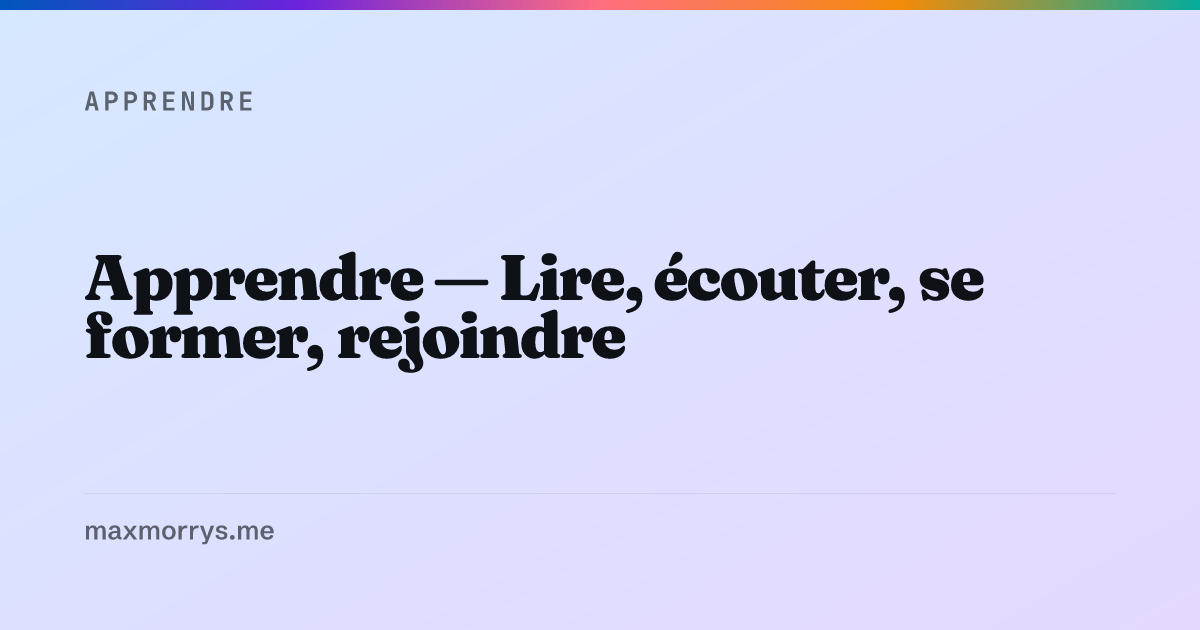
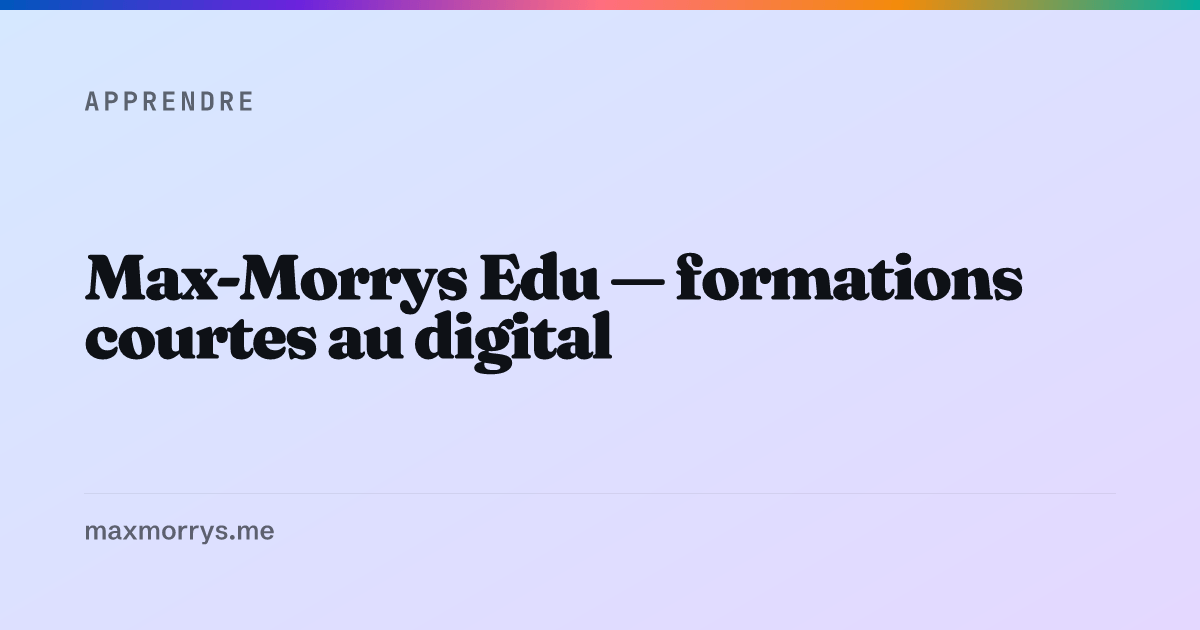
feat(seo): le pré-rendu du Worker suit les écrans de la passe 2
- H1 des pages du site alignés sur les nouveaux titres (accueil, à propos,
  conception, commerces, réalisations — nombre dérivé de REALISATIONS —,
  blog, podcast & vidéos, FAQ, contact), avec leur anglais écrit.
- `PageMeta.en` : l'anglais déjà présent dans l'i18n remplace, champ par
  champ, la traduction Gemini ; le champ ne sort jamais dans la méta.
- Club : description = `publicPage.lede` ; nouvelles pages
  /club-des-digitos/sessions et /adhesion (FR + EN), dont le `noindex`
  côté app est retiré.
- Edu : nouvelles pages /apprendre/methode et /apprendre/assistant ;
  /apprendre et /verifier retitrées « Max-Morrys Edu ».
- Routes de pré-rendu, sitemap, segments (miroir de src/i18n/segments.ts)
  et cartes d'aperçu des quatre pages neuves.

Changed region(s): [[0.0617, 0.3921, 0.8633, 0.6032]]

diff --git a/worker/apps/site/src/prerender/static-pages.ts b/worker/apps/site/src/prerender/static-pages.ts
@@ -6,6 +6,7 @@ import {
   SITE_URL,
   SOCIAL_URLS,
 } from '../constants';
+import { REALISATIONS } from './realisations';
 import type { PageMeta } from './types';
 
 /**
@@ -40,7 +41,8 @@ export const staticPages: Record<string, PageMeta> = {
      * avec leur date de relevé. Un nombre écrit en dur dans ce miroir serait faux le
      * lendemain, et rien ne le dirait.
      */
-    h1: 'Max-Morrys, conception web et formation',
+    h1: 'Former. Construire. Transmettre.',
+    en: { h1: 'Train. Build. Pass it on.' },
     bodyText:
       "Max-Morrys conçoit des sites et des plateformes web, et forme au digital — référencement, marketing, intelligence artificielle. Une seule personne, à Dakar, pour le marché francophone d'Afrique de l'Ouest.\n\n" +
       "Deux pistes, et aucune n'est l'antichambre de l'autre. La piste Conception se fait POUR vous : mise en ligne d'un commerce ou d'une TPE avec des formules bornées et des prix publiés, et projets sur mesure sur devis — sites corporate, plateformes, portails métier, systèmes de design. La piste Apprendre se fait PAR vous : formations, blog, podcast et vidéos, et le Club des Digitos.\n\n" +
@@ -121,7 +123,8 @@ export const staticPages: Record<string, PageMeta> = {
       address: { '@type': 'PostalAddress', addressLocality: 'Dakar', addressCountry: 'SN' },
       sameAs: SOCIAL_URLS,
     },
-    h1: 'Je suis Max-Morrys',
+    h1: 'Trois villes, un métier.',
+    en: { h1: 'Three cities, one trade.' },
     bodyText:
       "Concepteur web, formateur et créateur de contenu digital basé à Dakar. Je cadre les projets, j'écris les articles, je monte les formations, j'anime le Club, et je réponds aux messages.\n\n" +
       "Deux pistes, un seul interlocuteur. Je conçois des sites et des plateformes web pour des commerces, des TPE et des organisations ; et je forme au digital — référencement, marketing, intelligence artificielle — par des formations, un blog, un podcast et une communauté.\n\n" +
@@ -146,7 +149,8 @@ export const staticPages: Record<string, PageMeta> = {
     ogType: 'website',
     ogImage: DEFAULT_OG_IMAGE,
     canonical: `${SITE_URL}/blog`,
-    h1: 'Blog Marketing Digital',
+    h1: "J'écris ce que j'applique.",
+    en: { h1: 'I write what I apply.' },
     bodyText:
       "Retrouvez ici tous les articles de Max-Morrys sur le marketing digital, le SEO, l'IA, le growth marketing et la stratégie digitale. Conseils pratiques pour entrepreneurs et entreprises africaines.",
     breadcrumbs: [
@@ -211,7 +215,8 @@ export const staticPages: Record<string, PageMeta> = {
     ogType: 'website',
     ogImage: DEFAULT_OG_IMAGE,
     canonical: `${SITE_URL}/podcast-et-videos`,
-    h1: 'Écouter & regarder',
+    h1: 'À écouter, à regarder.',
+    en: { h1: 'To listen to, to watch.' },
     bodyText:
       "Le blog donne des méthodes ; ici, des gens racontent ce qu'ils ont fait. Épisodes de podcast et vidéos réunis sur une seule page, gratuits et sans compte, avec une transcription quand elle existe.",
     breadcrumbs: [
@@ -226,14 +231,19 @@ export const staticPages: Record<string, PageMeta> = {
    */
   '/club-des-digitos': {
     title: `Le Club des Digitos — Une année avec moi | ${SITE_NAME}`,
+    /* = `publicPage.lede` de `fr/club.json` : l'aperçu de partage dit ce que dit l'écran. */
     description:
-      "Sessions en direct, missions qui circulent et une réponse de moi dans les discussions. 1 658 FCFA par mois, facturé 19 900 FCFA une fois par an. Wave, Orange Money ou carte.",
+      "Le Club des Digitos, c'est un fil pour montrer ton travail et recevoir des retours, des sessions en direct chaque mois avec Max-Morrys, et des opportunités publiées par les membres.",
+    en: {
+      description:
+        'The Digitos Club is a feed to show your work and get feedback, live sessions every month with Max-Morrys, and opportunities posted by members.',
+    },
     ogType: 'website',
     ogImage: DEFAULT_OG_IMAGE,
     canonical: `${SITE_URL}/club-des-digitos`,
     h1: 'Le Club des Digitos',
     bodyText:
-      "Le Club des Digitos est une communauté annuelle payante, animée depuis Dakar. L'abonnement ouvre huit onglets — fil, discussions, membres, agenda, classement, opportunités, informations, parrainage — deux sessions en direct par mois, les ateliers en présentiel à Dakar, et un répétiteur porté à cinq questions par jour. 19 900 FCFA pour douze mois, soit 1 658 FCFA par mois. À l'échéance, l'accès s'arrête : rien n'est prélevé automatiquement.",
+      "Le Club des Digitos est une communauté annuelle payante, animée depuis Dakar. L'abonnement ouvre huit onglets — fil, discussions, membres, agenda, classement, opportunités, informations, parrainage — deux sessions en direct par mois, les ateliers en présentiel à Dakar, et un répétiteur porté à cinq questions par jour. 19 900 FCFA pour douze mois, soit 1 658 FCFA par mois. Paiement par Wave, Orange Money ou carte. À l'échéance, l'accès s'arrête : rien n'est prélevé automatiquement.",
     breadcrumbs: [
       { name: 'Accueil', url: `${SITE_URL}/` },
       { name: 'Le Club des Digitos', url: `${SITE_URL}/club-des-digitos` },
@@ -245,7 +255,8 @@ export const staticPages: Record<string, PageMeta> = {
    * ton neutre, et rien à vendre sur cette page.
    */
   '/verifier': {
-    title: `Vérifier un certificat | ${SITE_NAME}`,
+    title: 'Vérifier un certificat | Max-Morrys Edu',
+    en: { title: 'Verify a certificate | Max-Morrys Edu' },
     description:
       "Contrôle l'authenticité d'un certificat Max-Morrys à partir de son code. Sans compte, sans inscription : la page répond à un code, et à un seul.",
     ogType: 'website',
@@ -266,7 +277,8 @@ export const staticPages: Record<string, PageMeta> = {
     ogType: 'website',
     ogImage: DEFAULT_OG_IMAGE,
     canonical: `${SITE_URL}/faq`,
-    h1: 'Questions fréquentes',
+    h1: 'Une question, une réponse.',
+    en: { h1: 'One question, one answer.' },
     breadcrumbs: [
       { name: 'Accueil', url: `${SITE_URL}/` },
       { name: 'FAQ', url: `${SITE_URL}/faq` },
@@ -295,7 +307,8 @@ export const staticPages: Record<string, PageMeta> = {
     ogType: 'website',
     ogImage: DEFAULT_OG_IMAGE,
     canonical: `${SITE_URL}/conception`,
-    h1: 'Conception de sites web et de plateformes numériques',
+    h1: 'Nous concevons votre présence en ligne.',
+    en: { h1: 'We design your presence online.' },
     bodyText:
       "Max-Morrys conçoit des sites web et des plateformes numériques depuis Dakar. Le studio prend le projet au cadrage et le rend en service : conception d'interface, développement, mise en ligne, documentation d'exploitation. Une seule équipe, du premier écrit à la recette.\n\n" +
       "Deux niveaux d'engagement, et aucun des deux n'est caché. L'offre commerces et TPE est productisée : des formules bornées, des prix publiés en francs CFA, un paiement par Wave, Orange Money ou carte, pour les commerces et TPE d'Afrique de l'Ouest. Les projets sur mesure se traitent sur devis : sites corporate et bilingues, plateformes, portails métier, systèmes de design, intégrations.\n\n" +
@@ -368,7 +381,8 @@ export const staticPages: Record<string, PageMeta> = {
     ogType: 'website',
     ogImage: DEFAULT_OG_IMAGE,
     canonical: `${SITE_URL}/conception/commerces-et-tpe`,
-    h1: 'Tes clients te cherchent en ligne',
+    h1: 'Ton commerce, trouvé sur Google.',
+    en: { h1: 'Your shop, found on Google.' },
     bodyText:
       "Offre commerces et TPE — Afrique de l'Ouest. Pour un site corporate, une plateforme ou un portail métier, la page des projets sur mesure est la bonne porte.\n\n" +
       "J'installe la présence digitale complète de ton commerce : site web, fiche Google Business Profile, catalogue produits sur WhatsApp, Facebook, Instagram et Google Merchant, mesure des visites et référencement local. Trois packs de mise en place : Présence Locale à 295 000 FCFA, Commerce Visible à 495 000 FCFA, Boutique Digitale à 895 000 FCFA. Ensuite, un accompagnement mensuel qui publie pour toi, tient ton catalogue à jour et t'envoie un rapport chaque mois : Croissance Automatisée à 375 000 FCFA puis 175 000 FCFA par mois, ou Commerce 360 à 750 000 FCFA puis 225 000 FCFA par mois. Basé à Dakar, pour les commerces du Sénégal et d'Afrique de l'Ouest.",
@@ -503,7 +517,10 @@ export const staticPages: Record<string, PageMeta> = {
     ogType: 'website',
     ogImage: DEFAULT_OG_IMAGE,
     canonical: `${SITE_URL}/conception/realisations`,
-    h1: 'Réalisations',
+    // Le nombre est DÉRIVÉ du miroir des fiches, comme à l'écran (`clientProjects.length`) :
+    // un chiffre écrit ici serait faux à la prochaine livraison.
+    h1: `${REALISATIONS.length} projets, livrés.`,
+    en: { h1: `${REALISATIONS.length} projects, delivered.` },
     bodyText:
       "Les projets que nous avons menés, décrits par ce qui se vérifie : le rôle que nous avons réellement tenu, le périmètre technique, la pile logicielle employée, et le site en ligne que vous pouvez ouvrir.\n\n" +
       "Chaque fiche est publiée dans les limites de l'autorisation écrite du client : son nom, notre rôle, la pile et le lien. Les résultats commerciaux et les chiffres de croissance n'y figurent pas — cet accord ne les couvre pas, et nous préférons le dire plutôt que de publier ce que personne ne pourrait vérifier.",
@@ -526,9 +543,14 @@ export const staticPages: Record<string, PageMeta> = {
    * en base, et une valeur gelée dans ce fichier serait fausse le mois suivant.
    */
   '/apprendre': {
-    title: `Apprendre — Lire, écouter, se former, rejoindre | ${SITE_NAME}`,
+    title: 'Max-Morrys Edu — formations courtes au digital',
     description:
-      "La piste média et formation de Max-Morrys : le blog, le podcast et les vidéos, les formations en ligne et le Club des Digitos. En français, pour l'Afrique de l'Ouest.",
+      'Marketing digital, SEO, IA : des formations courtes payées une fois en Wave, Orange Money ou carte, à toi pour toujours, avec une mission par leçon.',
+    en: {
+      title: 'Max-Morrys Edu — short digital courses',
+      description:
+        'Digital marketing, SEO, AI: short courses paid once with Wave, Orange Money or card, yours forever, with a mission in every lesson.',
+    },
     ogType: 'website',
     ogImage: DEFAULT_OG_IMAGE,
     canonical: `${SITE_URL}/apprendre`,
@@ -544,6 +566,100 @@ export const staticPages: Record<string, PageMeta> = {
       { name: 'Apprendre', url: `${SITE_URL}/apprendre` },
     ],
   },
+  /*
+   * PASSE 2 (29/10/2026) — LES QUATRE PAGES NEUVES DES MAQUETTES v3.
+   *
+   * Leurs titres et descriptions sont ceux de l'écran (`ecrans.json`, clés `club.sessions.*`,
+   * `club.adhesion.*`, `edu.methode.*`, `edu.assistant.*`), et l'anglais est écrit ici plutôt
+   * que traduit à la volée : la version anglaise existe déjà dans l'i18n, la faire réinventer
+   * par Gemini donnerait deux formulations du même écran.
+   *
+   * ⚠ AUCUNE DATE NI AUCUN COMPTE de sessions tenues : la page les calcule en base.
+   */
+  '/club-des-digitos/sessions': {
+    title: `Les sessions du Club | ${SITE_NAME}`,
+    description:
+      "Les sessions en direct du Club des Digitos avec Max-Morrys : l'engagement, et ce qui a été tenu.",
+    ogType: 'website',
+    ogImage: DEFAULT_OG_IMAGE,
+    canonical: `${SITE_URL}/club-des-digitos/sessions`,
+    h1: 'Les sessions du Club.',
+    bodyText:
+      "Animées par Max-Morrys, ouvertes à tous les membres. Le calendrier et les liens se trouvent dans l'espace membre.",
+    en: {
+      title: `Club sessions | ${SITE_NAME}`,
+      description:
+        'The Digitos Club live sessions with Max-Morrys: the commitment, and what was actually held.',
+      h1: 'The Club sessions.',
+      bodyText:
+        'Hosted by Max-Morrys, open to every member. The calendar and links are in the member space.',
+    },
+    breadcrumbs: [
+      { name: 'Accueil', url: `${SITE_URL}/` },
+      { name: 'Le Club des Digitos', url: `${SITE_URL}/club-des-digitos` },
+      { name: 'Les sessions du Club', url: `${SITE_URL}/club-des-digitos/sessions` },
+    ],
+  },
+  '/club-des-digitos/adhesion': {
+    title: `Rejoindre le Club | ${SITE_NAME}`,
+    description:
+      'Adhérer au Club des Digitos : un prix annuel, payé une fois, sans prélèvement automatique.',
+    ogType: 'website',
+    ogImage: DEFAULT_OG_IMAGE,
+    canonical: `${SITE_URL}/club-des-digitos/adhesion`,
+    h1: 'Rejoindre le Club.',
+    bodyText: 'Un an de Club, payé une seule fois, sans aucun prélèvement automatique.',
+    en: {
+      title: `Join the Club | ${SITE_NAME}`,
+      description: 'Join the Digitos Club: one yearly price, paid once, no automatic debit.',
+      h1: 'Join the Club.',
+      bodyText: 'A year of Club, paid once, with no automatic debit at all.',
+    },
+    breadcrumbs: [
+      { name: 'Accueil', url: `${SITE_URL}/` },
+      { name: 'Le Club des Digitos', url: `${SITE_URL}/club-des-digitos` },
+      { name: 'Rejoindre le Club', url: `${SITE_URL}/club-des-digitos/adhesion` },
+    ],
+  },
+  '/apprendre/methode': {
+    title: 'La méthode — apprendre en faisant | Max-Morrys Edu',
+    description:
+      'Tu lis avant de payer, tu pratiques sur ton vrai projet, ta cohorte relit, et ton certificat se vérifie par code.',
+    ogType: 'website',
+    ogImage: DEFAULT_OG_IMAGE,
+    canonical: `${SITE_URL}/apprendre/methode`,
+    h1: 'Apprendre en faisant.',
+    en: {
+      title: 'The method — learn by doing | Max-Morrys Edu',
+      description:
+        'You read before you pay, practise on your real project, your cohort reviews, and your certificate can be checked by code.',
+      h1: 'Learn by doing.',
+    },
+    breadcrumbs: [
+      { name: 'Accueil', url: `${SITE_URL}/` },
+      { name: 'Apprendre', url: `${SITE_URL}/apprendre` },
+      { name: 'La méthode', url: `${SITE_URL}/apprendre/methode` },
+    ],
+  },
+  '/apprendre/assistant': {
+    title: "Rysmo IA, l'assistant des formations | Max-Morrys Edu",
+    description:
+      "Rysmo IA répond sur la leçon que tu as sous les yeux, à n'importe quelle heure. Ton quota du jour est visible avant chaque question.",
+    ogType: 'website',
+    ogImage: DEFAULT_OG_IMAGE,
+    canonical: `${SITE_URL}/apprendre/assistant`,
+    h1: 'Rysmo IA.',
+    en: {
+      title: 'Rysmo IA, the course assistant | Max-Morrys Edu',
+      description:
+        'Rysmo IA answers about the lesson in front of you, at any hour. Your daily quota is shown before every question.',
+    },
+    breadcrumbs: [
+      { name: 'Accueil', url: `${SITE_URL}/` },
+      { name: 'Apprendre', url: `${SITE_URL}/apprendre` },
+      { name: 'Rysmo IA', url: `${SITE_URL}/apprendre/assistant` },
+    ],
+  },
   '/contact': {
     title: `Contact | ${SITE_NAME}`,
     description:
@@ -551,7 +667,8 @@ export const staticPages: Record<string, PageMeta> = {
     ogType: 'website',
     ogImage: DEFAULT_OG_IMAGE,
     canonical: `${SITE_URL}/contact`,
-    h1: 'Contact',
+    h1: 'Parlons de ton projet.',
+    en: { h1: "Let's talk about your project." },
     /*
      * LE FORMULAIRE S'OUVRE SUR UNE QUESTION D'AIGUILLAGE (CDC §4.5), ET LA TROISIÈME
      * BRANCHE NE COLLECTE RIEN. Quelqu'un qui arrive ici depuis un moteur avec une demande de

diff --git a/worker/apps/site/src/seo/sitemap.ts b/worker/apps/site/src/seo/sitemap.ts
@@ -104,6 +104,8 @@ const STATIC_PAGES: Array<{ path: string; changefreq: string; priority: string }
    * L'autre étage du territoire violet — payant, fermé, mais sa page de vente est publique.
    */
   { path: '/club-des-digitos', changefreq: 'monthly', priority: '0.8' },
+  { path: '/club-des-digitos/sessions', changefreq: 'weekly', priority: '0.6' },
+  { path: '/club-des-digitos/adhesion', changefreq: 'monthly', priority: '0.7' },
   { path: '/faq', changefreq: 'monthly', priority: '0.5' },
   /*
    * LA PISTE CONCEPTION — ET PAS SES DEUX ANCÊTRES. `/agence` et `/presence-digitale` sont
@@ -120,6 +122,8 @@ const STATIC_PAGES: Array<{ path: string; changefreq: string; priority: string }
   { path: '/conception/projets-sur-mesure', changefreq: 'monthly', priority: '0.8' },
   { path: '/conception/realisations', changefreq: 'monthly', priority: '0.7' },
   { path: '/apprendre', changefreq: 'weekly', priority: '0.8' },
+  { path: '/apprendre/methode', changefreq: 'monthly', priority: '0.6' },
+  { path: '/apprendre/assistant', changefreq: 'monthly', priority: '0.6' },
   { path: '/contact', changefreq: 'monthly', priority: '0.5' },
   /*
    * La vérification d'un code. Elle se cherche depuis un moteur par quelqu'un qui a un

diff --git a/worker/apps/site/src/routes.ts b/worker/apps/site/src/routes.ts
@@ -41,6 +41,11 @@ const PRERENDER_EXACT = new Set([
   '/conception/projets-sur-mesure',
   '/conception/realisations',
   '/apprendre',
+  /* Passe 2 (29/10/2026) : les pages publiques neuves des maquettes v3. */
+  '/club-des-digitos/sessions',
+  '/club-des-digitos/adhesion',
+  '/apprendre/methode',
+  '/apprendre/assistant',
   '/en',
   '/en/blog',
   '/en/courses',
@@ -59,6 +64,10 @@ const PRERENDER_EXACT = new Set([
   '/en/design/custom-projects',
   '/en/design/work',
   '/en/learning',
+  '/en/digitos-club/sessions',
+  '/en/digitos-club/membership',
+  '/en/learning/method',
+  '/en/learning/assistant',
 ]);
 
 /** Sources en `/xxx/**` — comparées en préfixe. */

diff --git a/worker/apps/site/src/prerender/segments.ts b/worker/apps/site/src/prerender/segments.ts
@@ -89,6 +89,23 @@ const SEGMENTS: Record<string, string> = {
   paiements: 'payments',
   'prospects-agence': 'agency-leads',
   projets: 'projects',
+  /* Passe 2 (29/10/2026) — miroir des entrées ajoutées à `src/i18n/segments.ts`. */
+  compte: 'account',
+  methode: 'method',
+  assistant: 'assistant',
+  cohorte: 'cohort',
+  live: 'live',
+  missions: 'missions',
+  quiz: 'quiz',
+  sessions: 'sessions',
+  adhesion: 'membership',
+  defis: 'challenges',
+  publication: 'post',
+  journal: 'audit-log',
+  roles: 'roles',
+  moderation: 'moderation',
+  quotas: 'quotas',
+  infrastructure: 'infrastructure',
 };
 
 const EN_TO_FR: Record<string, string> = {};

diff --git a/worker/apps/site/src/prerender/types.ts b/worker/apps/site/src/prerender/types.ts
@@ -41,4 +41,12 @@ export interface PageMeta {
   /** Alternates hreflang absolus (toujours en FR canonique pour altFr). */
   altFr?: string;
   altEn?: string;
+  /**
+   * Version anglaise ÉCRITE, quand l'i18n de l'écran en a déjà une.
+   *
+   * Appliquée APRÈS la traduction automatique et à sa place, champ par champ : un champ absent
+   * reste traduit par Gemini. Sans elle, le titre anglais d'un écran et celui que lisent les
+   * robots seraient deux formulations différentes de la même phrase.
+   */
+  en?: Partial<Pick<PageMeta, 'title' | 'description' | 'h1' | 'bodyText'>>;
 }

diff --git a/src/pages/club/Sessions.tsx b/src/pages/club/Sessions.tsx
@@ -33,8 +33,7 @@ export default function ClubSessionsPage() {
 
   return (
     <DsNavHost>
-      {/* Page encore hors du pré-rendu du Worker : `noindex` tant que son entrée n'y est pas. */}
-      <SEOHead title={t(k('title'))} description={t(k('seoDescription'))} noIndex />
+      <SEOHead title={t(k('title'))} description={t(k('seoDescription'))} />
 
       <section className="mm-lhero px-[18px] pb-14 stack:px-11" style={HERO_TOP}>
         <span className="mm-kick">{t(k('kick'), { n: LIVE_SESSIONS_PER_MONTH })}</span>

diff --git a/worker/apps/site/src/prerender/index.ts b/worker/apps/site/src/prerender/index.ts
@@ -182,6 +182,11 @@ export async function resolvePageMeta(
         built,
       );
     }
+    // L'anglais écrit l'emporte sur l'anglais traduit (voir `PageMeta.en`), et ne sort jamais.
+    if (built.en) {
+      const { en, ...rest } = built;
+      built = lang === 'en' ? { ...rest, ...en } : rest;
+    }
 
     /*
       APRÈS la traduction, et l'ordre compte. L'adresse de l'image porte une empreinte du

diff --git a/src/pages/club/Adhesion.tsx b/src/pages/club/Adhesion.tsx
@@ -48,7 +48,7 @@ export default function ClubAdhesionPage() {
 
   return (
     <DsNavHost>
-      <SEOHead title={t(k('title'))} description={t(k('seoDescription'))} noIndex />
+      <SEOHead title={t(k('title'))} description={t(k('seoDescription'))} />
 
       <section className="mm-lhero px-[18px] pb-14 stack:px-11" style={HERO_TOP}>
         <span className="mm-kick">{t(k('kick'))}</span>
